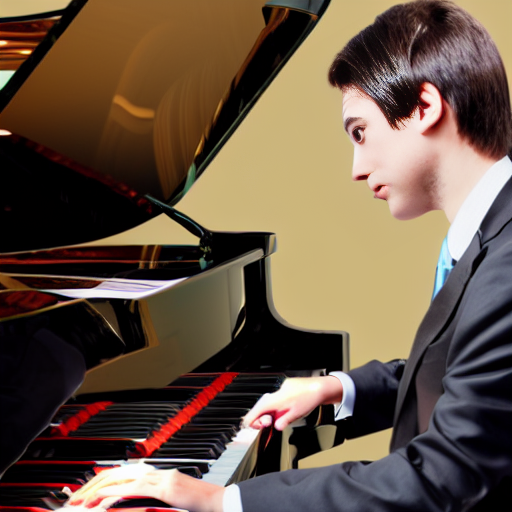
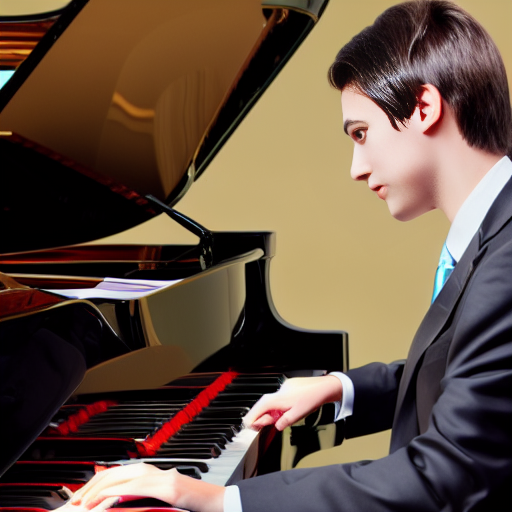
SD - Better image of pianist

diff --git a/pages/posts/stable-diffusion.js b/pages/posts/stable-diffusion.js
@@ -155,8 +155,8 @@ const StableDiffusion = () => {
 					My first attempt in order to get a better result was to input
 					words that are more context related. This image is already a lot
 					closer to what I imagined and although you can recognize the hands
-					they look very wrong. The following two images were generated using
-					the image to image method and only one input word &quot;hands&quot;.	
+					they look very wrong. The next image has been generated using
+					the image to image method and with only one input word &quot;hands&quot;.	
 				</P>
 				<br />
 				<Heading as="h3" fontSize={15}>
@@ -175,7 +175,9 @@ const StableDiffusion = () => {
 				</P>
 				<br />
 				<Heading as="h3" fontSize={15}>
-					Input: hands
+					Input: pianist, piano, hand, looking down, detailed, detailed skin,
+					detailed face, relaxed, light, shadow, photo, symmetrical ears and face shape,
+					symmetrical circular eyes reflecting the environment, natural color
 				</Heading>
 				<PostImage
 					src="/images/posts/stable-diffusion/pianistProcessed2.png"
@@ -183,17 +185,18 @@ const StableDiffusion = () => {
 				>
 				</PostImage>
 				<P>
-					I tried again the same input but with different settings this time.
-					Now the face arguably looks creepier but the hands turned out more
-					correct than in the previous two pictures. I guess it is just really
-					easy to mess up since Stable Diffusion does not have the anatomical
-					knowledge of human hands.
+					This input has yielded the best result so far. It describes in detail
+					what the image should include and the negative prompt includes about
+					as many specifics. But it is still far from perfect. The relfection of
+					the keys is the other way around and the lid is deformed. I guess the
+					more complex an activity is the harder it is to get it right. I also
+					think it does not help that we are very familiar with human
+					anatomy and its depiction so that any oddness will immediately stand out.	
 				</P>
 				<P>
-					Another reason could be that portaying hands playing the piano is
-					more complex than a simple picture of a hand. Take a look at the
-					following four images as a comparison. I am not going to include
-					the input for each picture but I have used this 
+					Next I tried to generate something simpler as a comparison.
+					Take a look at the following four images of just a hand and people waving respectively. 
+					I am not going to include the input for each picture but I have used this 
 					<Link 
 						href="https://www.reddit.com/r/StableDiffusion/comments/z7salo/with_the_right_prompt_stable_diffusion_20_can_do/"
 						target="_blank"
